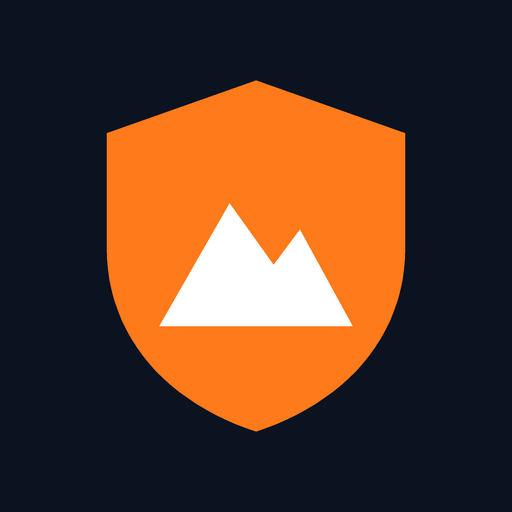
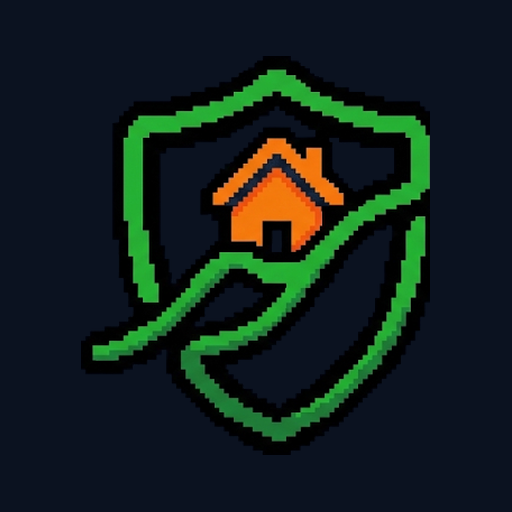
Novo símbolo nos ícones de instalação e na miniatura do site

diff --git a/index.html b/index.html
@@ -6,7 +6,7 @@
     <meta name="theme-color" content="#0b1220" />
     <meta name="description" content="Encosta Segura — alerta de risco de deslizamento em encostas de Pernambuco." />
     <link rel="manifest" href="/manifest.webmanifest" />
-    <link rel="icon" href="/favicon.svg" type="image/svg+xml" />
+    <link rel="icon" href="/favicon.png" type="image/png" sizes="64x64" />
     <link rel="apple-touch-icon" href="/icones/apple-touch-icon.png" />
     <meta name="mobile-web-app-capable" content="yes" />
     <meta name="apple-mobile-web-app-capable" content="yes" />

diff --git a/src/config/app.ts b/src/config/app.ts
@@ -2,7 +2,7 @@
 export const APP = {
   nome: 'Encosta Segura',
   slogan: 'Sempre ao seu lado',
-  versao: '1.5.1',
+  versao: '1.5.2',
   /** Lado de cada setor da grade, em metros. */
   tamanhoSetorMetros: 100,
   /** Telefone da Defesa Civil. */

diff --git a/scripts/gerar_icones.py b/scripts/gerar_icones.py
@@ -1,53 +1,46 @@
-"""Gera os ícones do app (PWA) em public/icones. Requer Pillow: pip install pillow.
+"""Gera os ícones do app (PWA), o favicon e o logotipo do cabeçalho.
 
+Requer Pillow: pip install pillow.
 Uso: python3 scripts/gerar_icones.py
-O desenho é o mesmo escudo do cabeçalho (src/components/layout/Cabecalho.tsx).
+
+A arte de origem é scripts/logo-origem.png (símbolo com fundo transparente).
+Para trocar o logotipo, substitua esse arquivo e rode o script de novo.
 """
 from pathlib import Path
-from PIL import Image, ImageDraw
+from PIL import Image
 
-FUNDO, LARANJA, BRANCO = "#0b1220", "#ff7a1a", "#ffffff"
-SAIDA = Path(__file__).resolve().parent.parent / "public" / "icones"
-
-
-def curva(p0, p1, p2, p3, passos=24):
-    pontos = []
-    for i in range(1, passos + 1):
-        t = i / passos
-        u = 1 - t
-        pontos.append(tuple(
-            u**3 * a + 3 * u * u * t * b + 3 * u * t * t * c + t**3 * d
-            for a, b, c, d in zip(p0, p1, p2, p3)
-        ))
-    return pontos
+FUNDO = "#0b1220"
+RAIZ = Path(__file__).resolve().parent.parent
+PUBLICO = RAIZ / "public"
+ORIGEM = Image.open(Path(__file__).resolve().parent / "logo-origem.png").convert("RGBA")
 
 
-# Caixa do desenho original: 38 x 42.
-ESCUDO = [(19, 1), (36, 7), (36, 20)]
-ESCUDO += curva((36, 20), (36, 30.5), (28.8, 37.8), (19, 41))
-ESCUDO += curva((19, 41), (9.2, 37.8), (2, 30.5), (2, 20))
-ESCUDO += [(2, 7)]
-MONTANHA = [(8, 29), (16, 15), (21, 22), (24, 18), (30, 29)]
+def simbolo(lado):
+    """O símbolo reduzido para caber em um quadrado de `lado` pixels, mantendo a proporção."""
+    escala = lado / max(ORIGEM.size)
+    tamanho = (max(1, round(ORIGEM.width * escala)), max(1, round(ORIGEM.height * escala)))
+    return ORIGEM.resize(tamanho, Image.LANCZOS)
 
 
-def icone(tamanho, proporcao):
-    """`proporcao`: altura do escudo em relação ao lado do ícone."""
-    fator = 4  # desenha maior e reduz, para suavizar as bordas
-    lado = tamanho * fator
-    imagem = Image.new("RGB", (lado, lado), FUNDO)
-    desenho = ImageDraw.Draw(imagem)
-    escala = lado * proporcao / 42
-    dx, dy = (lado - 38 * escala) / 2, (lado - 42 * escala) / 2
-    mover = lambda pontos: [(dx + x * escala, dy + y * escala) for x, y in pontos]
-    desenho.polygon(mover(ESCUDO), fill=LARANJA)
-    desenho.polygon(mover(MONTANHA), fill=BRANCO)
-    return imagem.resize((tamanho, tamanho), Image.LANCZOS)
+def icone(tamanho, proporcao, fundo=FUNDO):
+    """Ícone quadrado; `proporcao` é o lado ocupado pelo símbolo. `fundo=None` deixa transparente."""
+    imagem = Image.new("RGBA", (tamanho, tamanho), fundo or (0, 0, 0, 0))
+    desenho = simbolo(round(tamanho * proporcao))
+    posicao = ((tamanho - desenho.width) // 2, (tamanho - desenho.height) // 2)
+    imagem.alpha_composite(desenho, posicao)
+    return imagem if fundo is None else imagem.convert("RGB")
 
 
-SAIDA.mkdir(parents=True, exist_ok=True)
-icone(192, 0.72).save(SAIDA / "icone-192.png", optimize=True)
-icone(512, 0.72).save(SAIDA / "icone-512.png", optimize=True)
-# Mascarável: o Android pode recortar até 10% de cada borda; o escudo fica na área segura.
-icone(512, 0.56).save(SAIDA / "icone-mascaravel-512.png", optimize=True)
-icone(180, 0.72).save(SAIDA / "apple-touch-icon.png", optimize=True)
-print("Ícones gerados em", SAIDA)
+if __name__ == "__main__":
+    icones = PUBLICO / "icones"
+    icones.mkdir(parents=True, exist_ok=True)
+    icone(192, 0.78).save(icones / "icone-192.png", optimize=True)
+    icone(512, 0.78).save(icones / "icone-512.png", optimize=True)
+    # Ícone mascarável: o desenho fica na área segura central (o sistema recorta as bordas).
+    icone(512, 0.56).save(icones / "icone-mascaravel-512.png", optimize=True)
+    icone(180, 0.78).save(icones / "apple-touch-icon.png", optimize=True)
+    # Miniatura do site (aba do navegador), com fundo para aparecer bem em abas claras e escuras.
+    icone(64, 0.86).save(PUBLICO / "favicon.png", optimize=True)
+    # Logotipo do cabeçalho, com fundo transparente.
+    icone(192, 0.98, fundo=None).save(PUBLICO / "logo.png", optimize=True)
+    print("Ícones gerados em", PUBLICO)

diff --git a/docs/USO_DE_IA.md b/docs/USO_DE_IA.md
@@ -127,8 +127,11 @@ início até a versão 1.5.0, e para que serviu cada uso.
 - **Não validou as regras de risco.** Os limites de inclinação e as regras de
   chuva foram definidos pelo responsável ou propostos como padrão de protótipo.
   Não foram comparados com mapeamento oficial nem com relevo real.
-- **Não gerou imagens com IA.** Os ícones do app são desenhos vetoriais escritos
-  em código e gerados por script (`scripts/gerar_icones.py`).
+- **Não gerou as imagens do app.** Até a versão 1.5.0 os ícones eram desenhos
+  vetoriais escritos em código. A partir da 1.5.1 o logotipo é uma arte enviada
+  pelo responsável, criada fora desta conversa (o agente escreveu um prompt de
+  logotipo para o Gemini a pedido dele); o agente apenas recortou a arte e gerou
+  os tamanhos por script (`scripts/gerar_icones.py`).
 - **Não publicou o app.** A publicação na Vercel é feita pela conta do
   responsável.
 - **Não roda dentro do app.** O alerta de socorro é simulado e nenhuma decisão

diff --git a/docs/CHANGELOG.md b/docs/CHANGELOG.md
@@ -2,6 +2,17 @@
 
 Uma entrada por prompt/etapa.
 
+## 1.5.2 — Novo símbolo no ícone do app e na miniatura do site
+
+- Ícones de instalação (192, 512, mascarável e iPhone) e miniatura da aba do
+  navegador (`public/favicon.png`) passam a usar o novo símbolo, sobre o fundo
+  azul-escuro do app.
+- `scripts/gerar_icones.py` agora gera todos a partir de
+  `scripts/logo-origem.png`.
+- Quem já instalou o app pode continuar vendo o ícone antigo até reinstalar.
+- Verificação: lint, tipos, testes e build aprovados. Aparência no aparelho não
+  conferida.
+
 ## 1.5.1 — Novo logotipo no cabeçalho
 
 - O escudo laranja do cabeçalho foi trocado pelo novo símbolo (escudo verde com

diff --git a/README.md b/README.md
@@ -200,7 +200,9 @@ O service worker (`public/sw.js`) só é registrado na versão de produção
 (`npm run build` + `npm run preview`, ou o deploy); em `npm run dev` ele fica
 desligado.
 
-Os ícones são gerados por `python3 scripts/gerar_icones.py` (requer Pillow).
+Os ícones, a miniatura do site e o logotipo do cabeçalho são gerados por
+`python3 scripts/gerar_icones.py` (requer Pillow), a partir de
+`scripts/logo-origem.png`.
 
 ## Falhas tratadas
 
